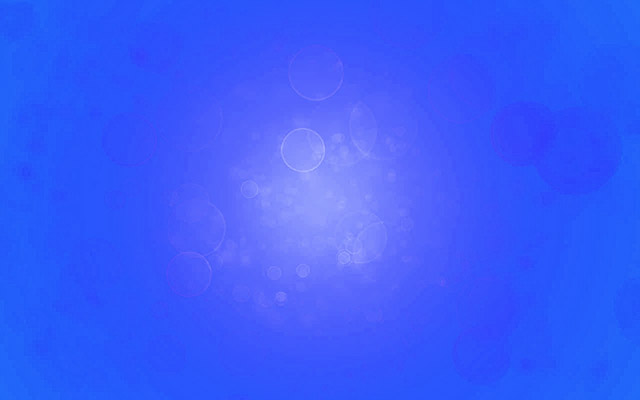
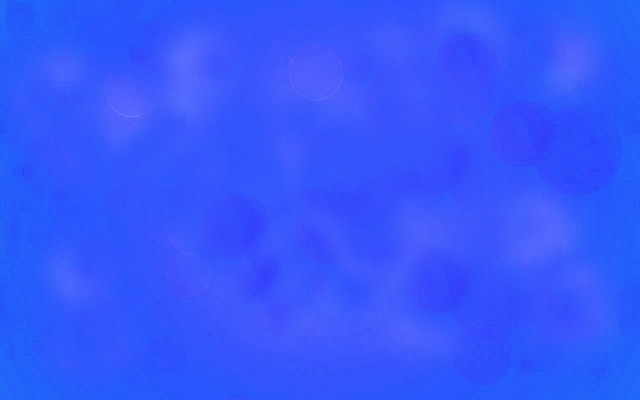
каммит

diff --git a/s.css b/s.css
@@ -366,7 +366,7 @@ h4 {
 .index-discription {
     margin-top:20px;
     padding:  30px ;
-    background: url(assets/templates/kombat/img/background2.jpg) 50% center / cover no-repeat transparent;
+    background: url(assets/templates/kombat/img/background2.jpg) 45% center repeat-x;
 
 
 
@@ -639,8 +639,7 @@ color: #2758fd;
 
 
 .index-specialist {
-    background: transparent url(assets/templates/kombat/img/background2-blue.jpg) 50% no-repeat;
-    background-size: cover;
+    background: transparent url(assets/templates/kombat/img/background2-blue.jpg) 23% repeat-x;
 padding: 60px 0;
 }
 
@@ -953,19 +952,18 @@ ul.customBullet li a:hover {
  
 }
 
-.content-button.master-button:hover,
-.footer-cols .col .content-button:hover   {
+.content-button.master-button:hover  {
     color: #416bfb;
 }
 
-#footer {
 
+#footer {
+    line-height: 28px;
     background:  transparent url('assets/templates/kombat/img/background2.jpg') 50% no-repeat;
         background-size: cover;
 }
 
 .footer-cols {
-
     padding-top: 20px;
     padding-bottom: 10px
 }
@@ -976,15 +974,11 @@ display: flex;
 }
 
 .footer-cols .col {
- 
-    min-height: 272px;
-    border-right: #f9cb94 solid 1px;
-    border-left: #000 solid 1px;
+    width: 33%;
     padding-left: 5px;
     padding-right: 5px;
-    text-align: center
-}
 
+}
 
 
 .footer-cols .col h3 {
@@ -994,7 +988,36 @@ display: flex;
     margin-bottom: 1px;
     text-transform: none;
     font-weight: bold;
-    text-align: center
+
+
+}
+
+.footer-cols .menu-footer {
+    list-style: none;
+    text-align: left;
+    font-size: 20px;
+    line-height: 40px;
+    padding: 0;
+}
+
+.footer-cols .menu-footer li {
+    border-bottom: 1px solid #969696;
+}
+
+
+.footer-cols .menu-footer li:last-child {
+    border-bottom: none;
+}
+
+
+.footer-cols .menu-footer a {
+    color: #000
+}
+
+
+.footer-cols .menu-footer a:hover {
+    text-decoration: none;
+    color: #969696
 }
 
 .footer-cols .col h3 a {
@@ -1006,52 +1029,9 @@ display: flex;
 .footer-cols .col p {
     color: #000
 }
-.footer-cols .col img {
-    height: 121px
-}
-.footer-cols .footer-col1 {
-    width: 28%;
-    border-left: none
-}
-.footer-cols .footer-col2 {
-    width: 40%
-}
-.footer-cols .footer-col3 {
-    width: 28%;
-    border-right: none
-}
-.footer-cols .footer-col3 p {
-    margin: 6px auto;
-    color: #000;
-    line-height: 20px
-}
-.footer-cols .footer-col3 p strong {
-    color: #000
-}
-.footer-cols .footer-col3 p a,
-.footer-cols .footer-col3 p span {
-    color: #000;
-    font-size: 18px
-}
-.footer-cols .footer-col3 p span a,
-.footer-cols .footer-col3 p span a:hover {
-    cursor: text;
-    text-decoration: none
-}
-.footer-cols .footer-col3 h3 {
-    padding-left: 30px;
-    width: 118px;
-    margin: 0 auto
-}
-.footer-cols .footer-col3 h3::before {
-    position: absolute;
-    content: "";
-    width: 23px;
-    height: 23px;
-    background: url(assets/templates/kombat/img/icons.png) no-repeat 0 4px;
-    background-position: -106px -66px;
-    margin-left: -30px
-}
+
+
+
 .footer-links {
     background: #000;
     text-transform: uppercase;
@@ -1640,7 +1620,6 @@ a.no-link-decor {
     .footer-cols .col {
         margin: 0;
         padding: 0;
-        text-align: center
     }
     .footer-cols h3 {
         text-align: center
@@ -1730,8 +1709,6 @@ a.no-link-decor {
         height: auto
     }
 
-
-
     #logo,
     .menu {
         position: static
@@ -1806,21 +1783,10 @@ a.no-link-decor {
     .footer-cols .footer-col3 {
         border: none
     }
-    .footer-count {
-        width: 100%;
-        text-align: center;
-        margin-bottom: 5px
-    }
-    .sbrf-rshb {
-        width: 100%;
-        float: none
-    }
-    .sbrf-rshb img {
-        margin-bottom: 10px
-    }
-    .footer-count a {
-        margin: 0
-    }
+
+
+
+
     #main.home2 .entry img {
         margin: 0;
         width: 100%;
@@ -2171,7 +2137,7 @@ a.no-link-decor {
     width:30px;
     height:30px;
     text-align:center;
-    background:#f47d12 url("../images/arrows.png") no-repeat;
+    background:#f47d12 url("images/arrows.png") no-repeat;
     border-radius:2em;
     -webkit-border-radius:2em;
     -moz-border-radius:2em;

diff --git a/index2.html b/index2.html
@@ -138,9 +138,6 @@
       	<div class="shell">
       		<h2>Акции и спецпредложения</h2>
 
-
-
-
     	        <div class="content_top">
 		          	 <div class="ocarousel_slider">  
 	      				<div class="ocarousel example_photos" data-ocarousel-perscroll="3">
@@ -166,25 +163,12 @@
 				     </div>
     	       </div>
 
-
          </div>
       </section>
       <footer id="footer">
          <div class="footer-cols">
             <div class="shell">
                <section class="col footer-col1">
-                  <h3>Главное меню</h3>
-                    <ul class="menu-footer">,
-                    <li><a href="#">Главная</a></li>
-                    <li><a href="#">Каталог</a></li>
-                    <li><a href="#">Услуги</a></li>
-                    <li><a href="#">Скидки</a></li>
-                    <li><a href="#">Статьи</a></li>
-                    <li><a href="#">Контакты</a></li>
-
-                    </ul>
-               </section>
-               <section class="col footer-col2">
                   <h3><a title="Перейти на страницу с контактной информацией" href="contact.html">Контакты</a></h3>
                   <p><strong>Email:</strong> <a href="mailto:uss.ur@mail.ru">uss.ur@mail.ru</a></p>
                   <p><strong>Телефоны:<br></strong><span><a href="tel:+7-3412-930-191">+7 (3412) 930-191</a><br>
@@ -194,6 +178,18 @@
                   <p><strong>Горячая линия: </strong><span><a href="tel:+79199197007">+7 (919) 919-7007</a></span></p>
                   <p><strong>Адрес: </strong>426039, Удмуртская Республика, г.Ижевск, ул.Воткинское шоссе, 170 В1.</p>
                   <a href="index2.html#" class="content-button modal-request" >Отправить запрос</a>
+               </section>
+               <section class="col footer-col2">
+
+                  <h3>Информация</h3>
+                    <ul class="menu-footer">
+                    <li><a href="#">Главная</a></li>
+                    <li><a href="#">Каталог</a></li>
+                    <li><a href="#">Услуги</a></li>
+                    <li><a href="#">Скидки</a></li>
+                    <li><a href="#">Статьи</a></li>
+                    <li><a href="#">Контакты</a></li>
+                    </ul>
                </section>
                <section class="col footer-col3">
                   <h3><a title="Перейти на страницу с контактной информацией" href="#">Статьи</a></h3>
@@ -267,8 +263,7 @@
       <!--  <script id="rhlpscrtg" type="text/javascript" charset="utf-8" async="async" 
          src="https://web.redhelper.ru/service/main.js?c=uss"></script> -->
         <script src="assets/js/jquery.openCarousel.js" type="text/javascript"></script>
-
-      <script type="text/javascript" src="/assets/components/ajaxform/js/default.js"></script>
+      <script type="text/javascript" src="assets/components/ajaxform/js/default.js"></script>
       <script type="text/javascript">AjaxForm.initialize({"assetsUrl":"\/assets\/components\/ajaxform\/","actionUrl":"\/assets\/components\/ajaxform\/action.php","closeMessage":"\u0437\u0430\u043a\u0440\u044b\u0442\u044c \u0432\u0441\u0435","formSelector":"form.ajax_form","pageId":1});</script>
    </body>
 </html>
